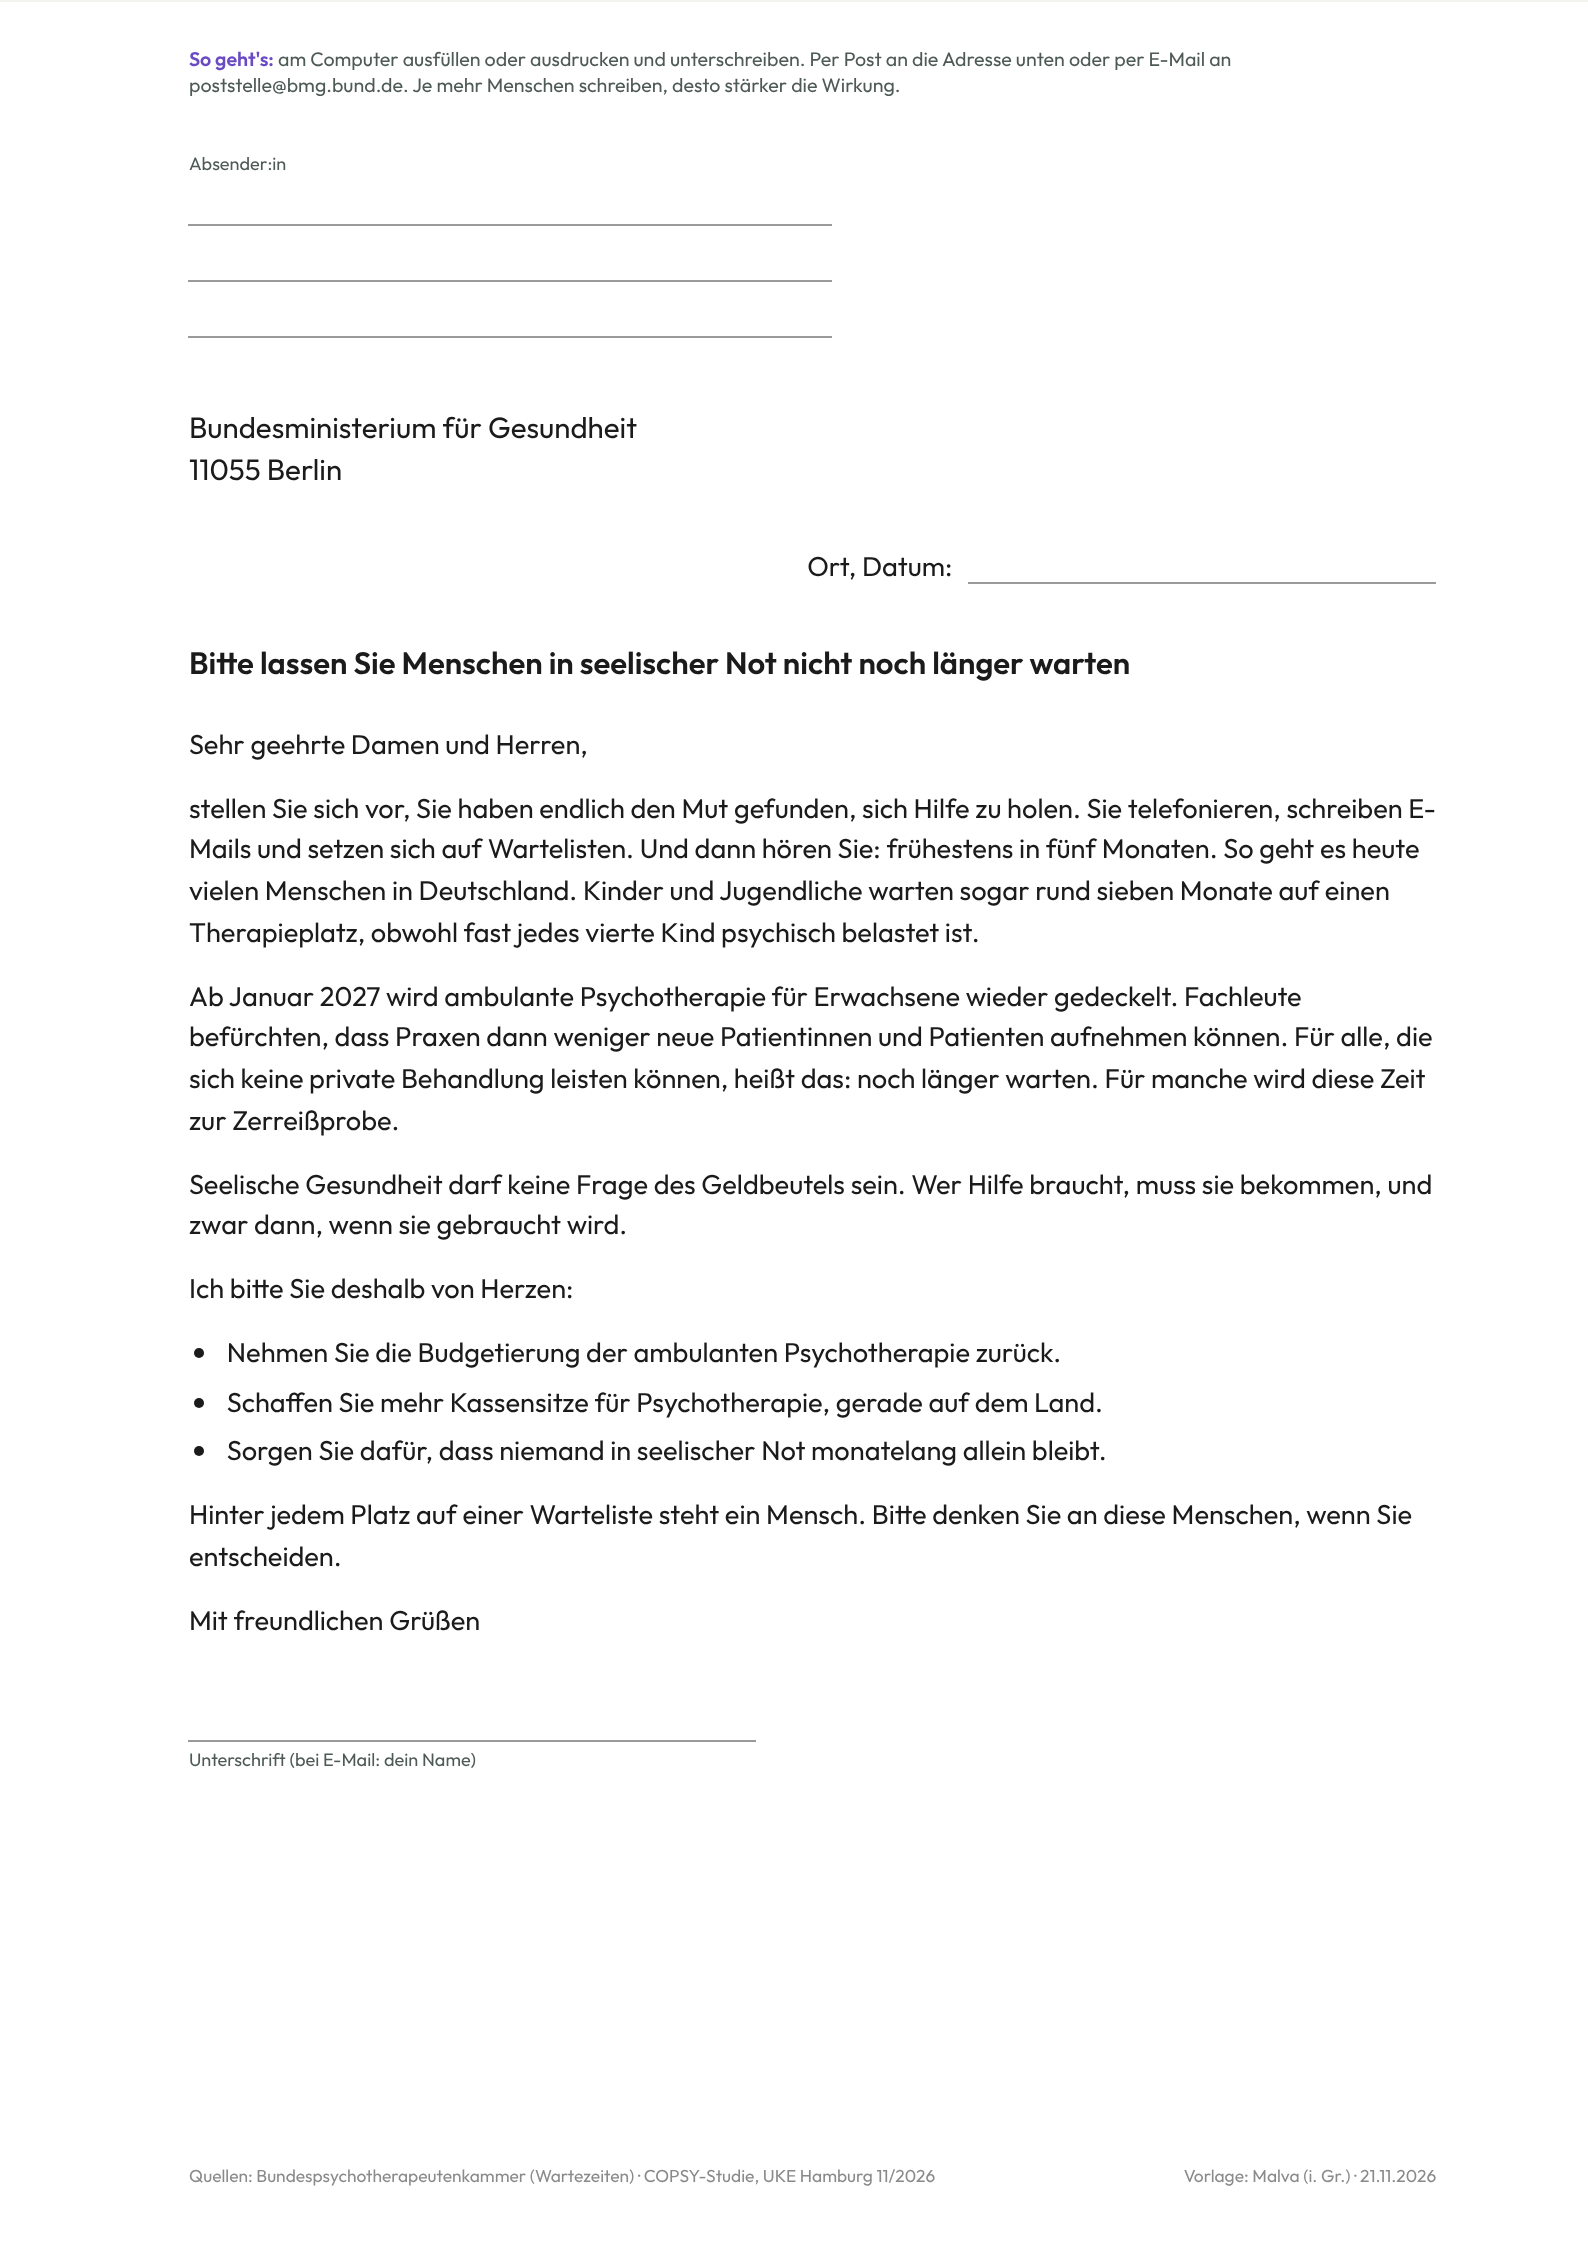
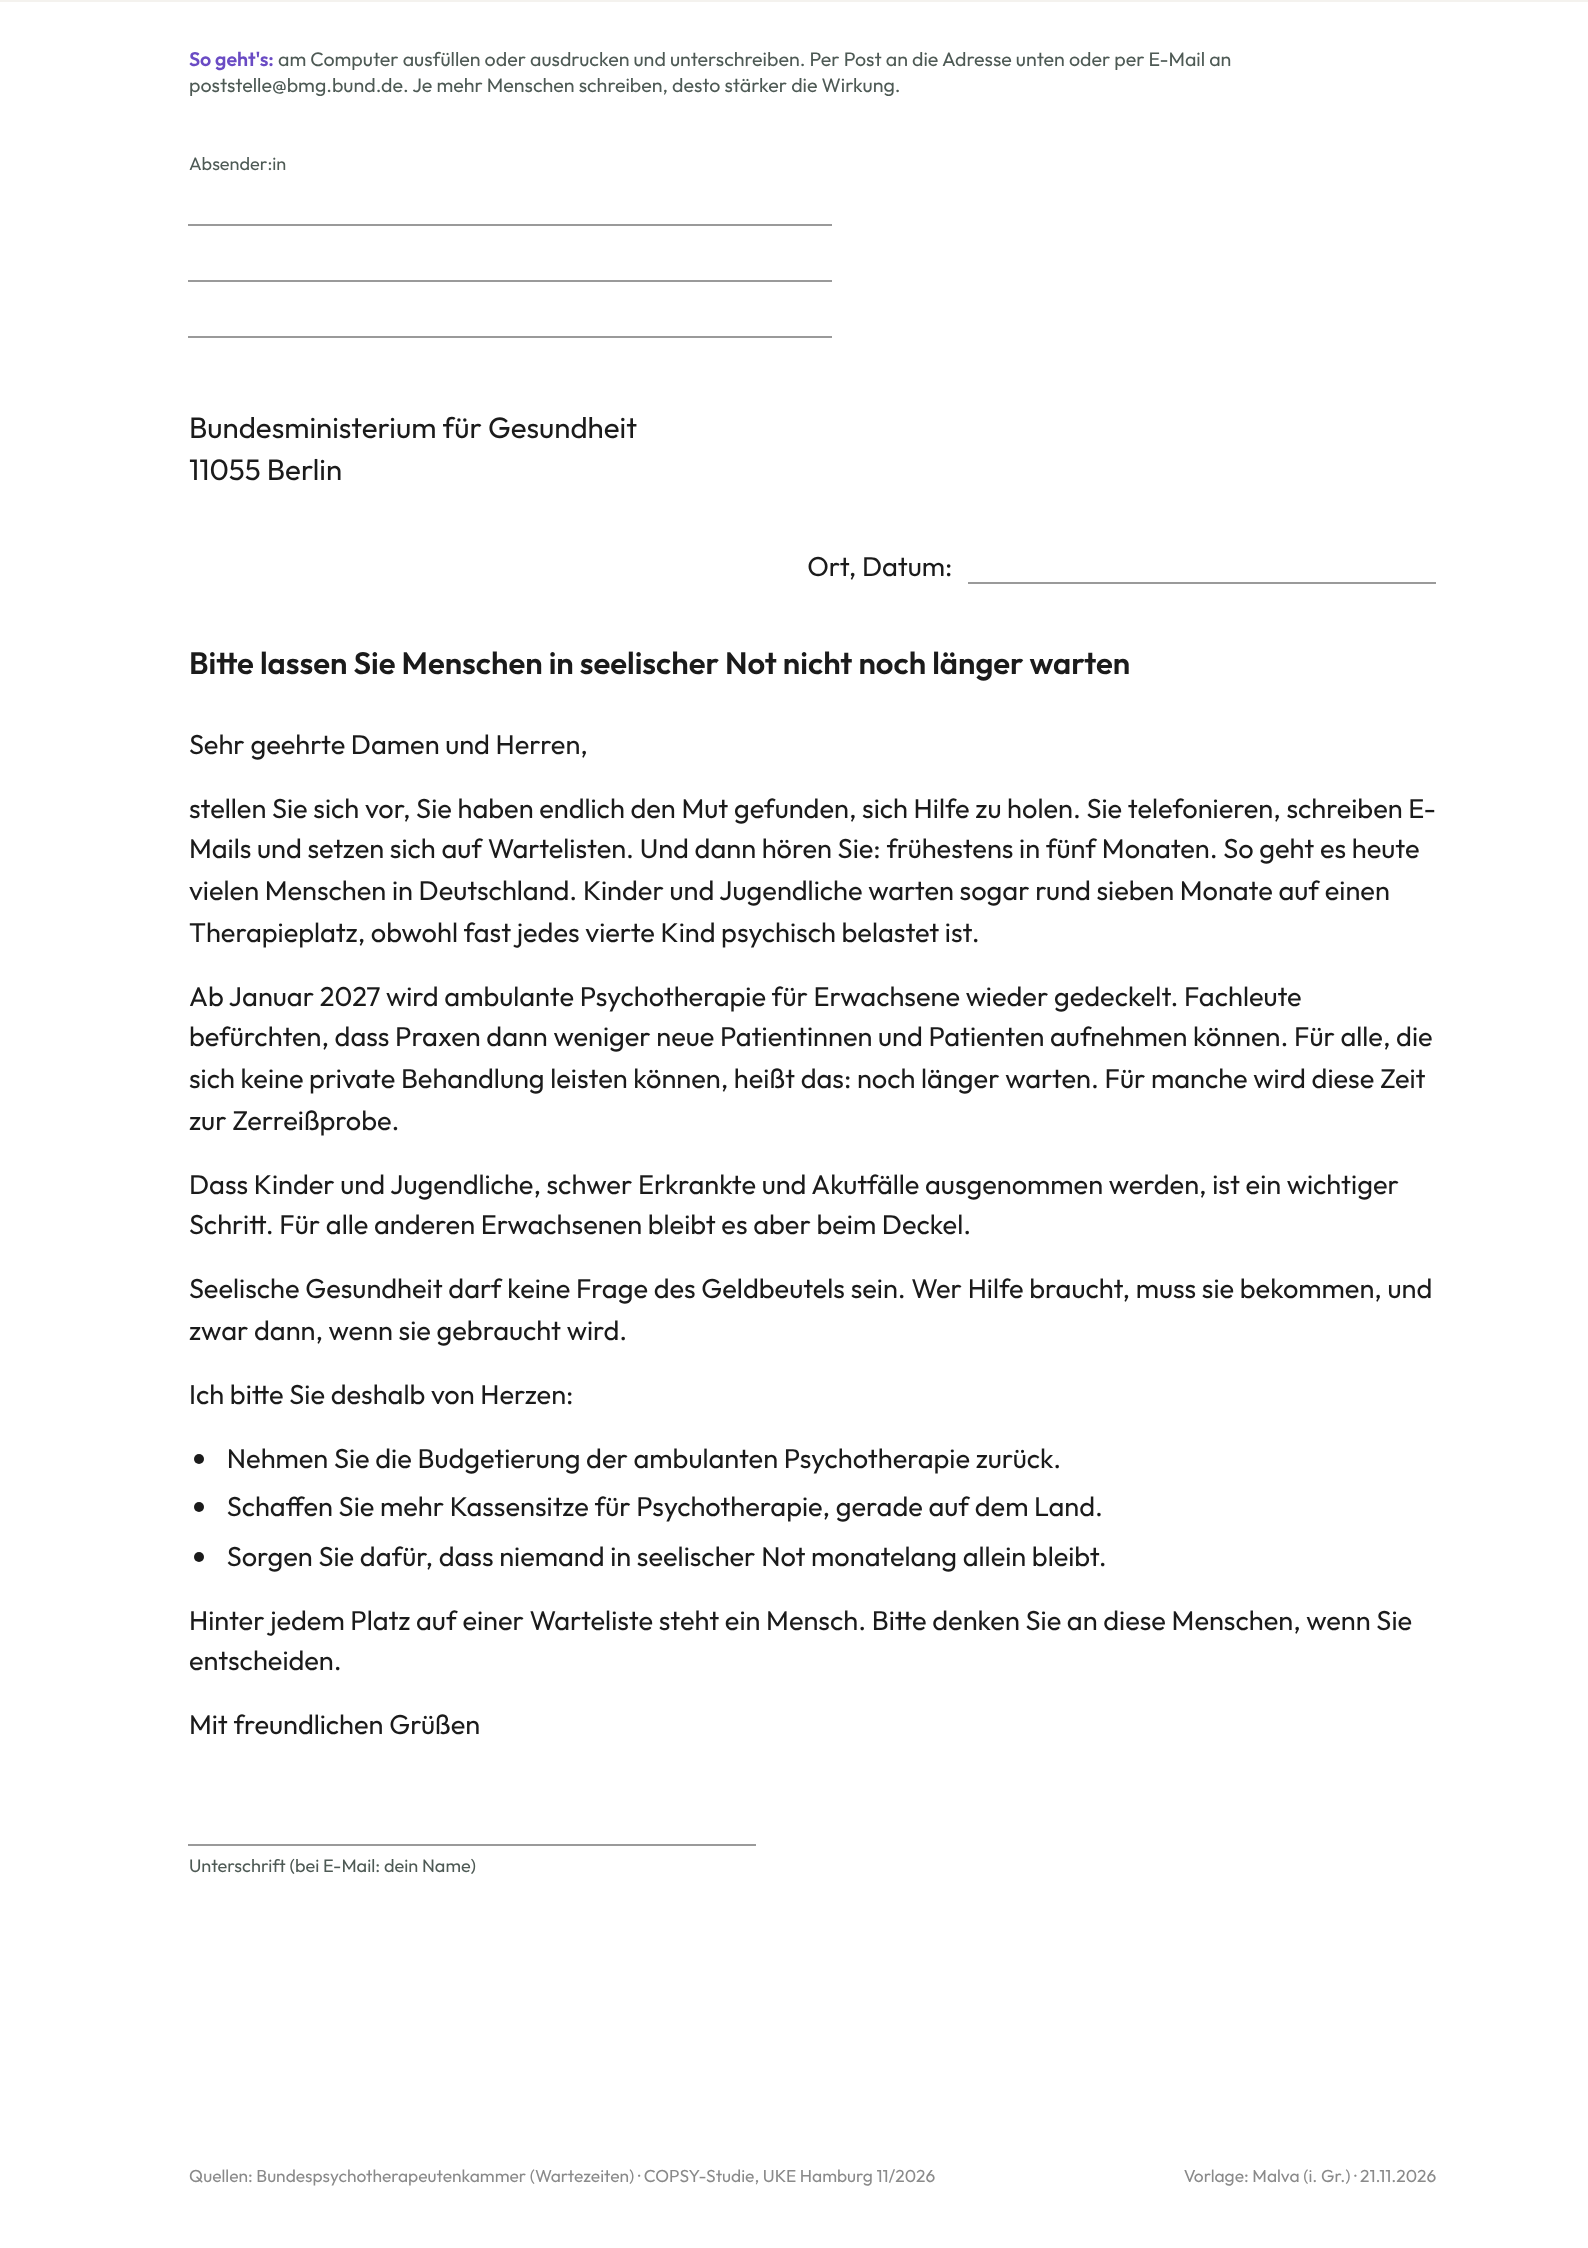
Infoblatt: Ausnahmen nach Bundesratsbeschluss vom 20.11.2026
Claude-Session: https://claude.ai/code/session_015uEer6M6e5oi78ZvJtGjnt

diff --git a/malva-website/infoblatt/infoblatt-warum-jetzt.html b/malva-website/infoblatt/infoblatt-warum-jetzt.html
@@ -24,7 +24,7 @@ h1 .hl{color:var(--ll)}
 .deco{position:absolute;right:-22mm;bottom:-32mm;width:90mm;opacity:.13}
 
 /* Zeitungsraster */
-.grid{flex:1;padding:4.5mm 14mm 0;display:grid;grid-template-columns:repeat(6,1fr);gap:3mm;align-content:start}
+.grid{flex:1;padding:4mm 14mm 0;display:grid;grid-template-columns:repeat(6,1fr);gap:3mm;align-content:start}
 .art{border-radius:4mm;padding:4mm 4.5mm}
 .art h2{font-weight:600;font-size:4.6mm;line-height:1.12;letter-spacing:-.02em;margin-bottom:1.6mm}
 .art p{font-size:2.85mm;line-height:1.42;margin-bottom:1.3mm;hyphens:auto;text-align:justify}
@@ -39,7 +39,7 @@ h1 .hl{color:var(--ll)}
 .salbei{background:var(--sage)}
 .dunkel{background:var(--g);color:var(--c)}
 .dunkel .kicker{color:var(--sl)}
-.dunkel p{color:#DCE6DF}
+.dunkel p{color:#DCE6DF;text-align:left}
 .lila .kicker{color:var(--lt)}
 .salbei .kicker{color:var(--gt)}
 
@@ -50,12 +50,12 @@ h1 .hl{color:var(--ll)}
 .four svg{width:100%;height:auto}
 .four figcaption{grid-column:1/-1;text-align:center;font-size:2.5mm;color:var(--m);margin-top:.6mm}
 
-.list{list-style:none;display:flex;flex-direction:column;gap:1.4mm;margin-top:1mm}
+.list{list-style:none;display:flex;flex-direction:column;gap:1mm;margin-top:.8mm}
 .list li{font-size:2.85mm;line-height:1.4;padding-left:4mm;position:relative}
 .list li::before{content:"";position:absolute;left:0;top:1.3mm;width:1.8mm;height:1.8mm;border-radius:50%;background:var(--l)}
 .dunkel .list li::before{background:var(--sl)}
 
-.foot{flex:none;padding:3.5mm 14mm 5mm;font-size:2.3mm;line-height:1.45;color:var(--m)}
+.foot{flex:none;padding:3mm 14mm 4mm;font-size:2.3mm;line-height:1.45;color:var(--m)}
 .foot b{font-weight:600;color:var(--g)}
 
 /* Seite 2: Brief */
@@ -119,13 +119,14 @@ h1 .hl{color:var(--ll)}
     <article class="art dunkel w2">
       <p class="kicker">Ausnahmen</p>
       <h2>Nicht für alle</h2>
-      <p>Im Oktober hat der Bundestag nachgebessert. Ausgenommen werden sollen:</p>
+      <p>Am 20.11.2026 billigte der Bundesrat Ausnahmen. Ungedeckelt bleiben:</p>
       <ul class="list">
         <li>Kinder und Jugendliche</li>
         <li>schwer psychisch Erkrankte</li>
-        <li>dringende Akutfälle</li>
+        <li>Akutfälle über die 116 117, bis 600 Min. im Jahr</li>
+        <li>vor 2027 genehmigte Therapien</li>
       </ul>
-      <p style="margin-top:1.8mm">Für die meisten Erwachsenen bleibt es beim Deckel.</p>
+      <p style="margin-top:1.8mm">Alle anderen Erwachsenen, auch in Gruppen, trifft der Deckel.</p>
     </article>
 
     <article class="art salbei w3">
@@ -153,7 +154,7 @@ h1 .hl{color:var(--ll)}
   </main>
 
   <footer class="foot">
-    <b>Quellen:</b> COPSY-Studie, Universitätsklinikum Hamburg-Eppendorf (17.11.2026) · Bundespsychotherapeutenkammer: Wartezeiten und Forderungen zur Bedarfsplanung · GKV-Beitragssatzstabilisierungsgesetz (Bundestag und Bundesrat, Juli 2026) und Änderungen vom Oktober 2026, nach Angaben von DGVT-BV, DPtV und Kassenärztlicher Vereinigung Hamburg · § 13 Abs. 3 SGB V.<br>
+    <b>Quellen:</b> COPSY-Studie, Universitätsklinikum Hamburg-Eppendorf (17.11.2026) · Bundespsychotherapeutenkammer: Wartezeiten und Forderungen zur Bedarfsplanung · GKV-Beitragssatzstabilisierungsgesetz (Juli 2026) und Korrekturen im Rahmen der Notfallreform (Bundestag 15.10.2026, Bundesrat 20.11.2026), nach Angaben von BPtK, Bundesgesundheitsministerium, Ärzteblatt und Deutschlandfunk · § 13 Abs. 3 SGB V.<br>
     <b>Infoblatt vom 21. November 2026,</b> herausgegeben von Malva (Verein in Gründung), Bad Dürkheim. Alle Angaben nach bestem Wissen, ohne Gewähr.
   </footer>
 </div>
@@ -173,6 +174,7 @@ h1 .hl{color:var(--ll)}
     <p>Sehr geehrte Damen und Herren,</p>
     <p>stellen Sie sich vor, Sie haben endlich den Mut gefunden, sich Hilfe zu holen. Sie telefonieren, schreiben E-Mails und setzen sich auf Wartelisten. Und dann hören Sie: frühestens in fünf Monaten. So geht es heute vielen Menschen in Deutschland. Kinder und Jugendliche warten sogar rund sieben Monate auf einen Therapieplatz, obwohl fast jedes vierte Kind psychisch belastet ist.</p>
     <p>Ab Januar 2027 wird ambulante Psychotherapie für Erwachsene wieder gedeckelt. Fachleute befürchten, dass Praxen dann weniger neue Patientinnen und Patienten aufnehmen können. Für alle, die sich keine private Behandlung leisten können, heißt das: noch länger warten. Für manche wird diese Zeit zur Zerreißprobe.</p>
+    <p>Dass Kinder und Jugendliche, schwer Erkrankte und Akutfälle ausgenommen werden, ist ein wichtiger Schritt. Für alle anderen Erwachsenen bleibt es aber beim Deckel.</p>
     <p>Seelische Gesundheit darf keine Frage des Geldbeutels sein. Wer Hilfe braucht, muss sie bekommen, und zwar dann, wenn sie gebraucht wird.</p>
     <p>Ich bitte Sie deshalb von Herzen:</p>
     <ul>
